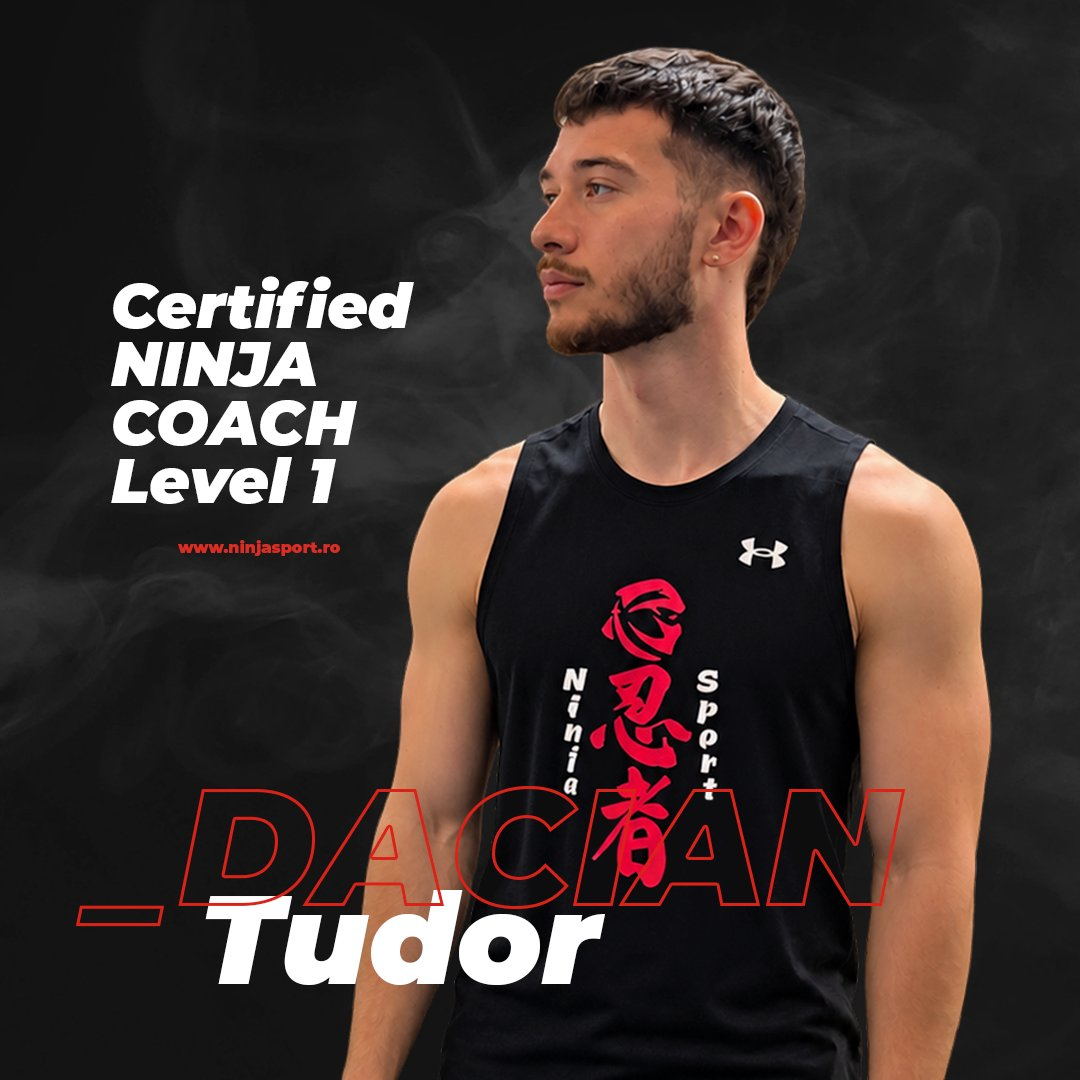
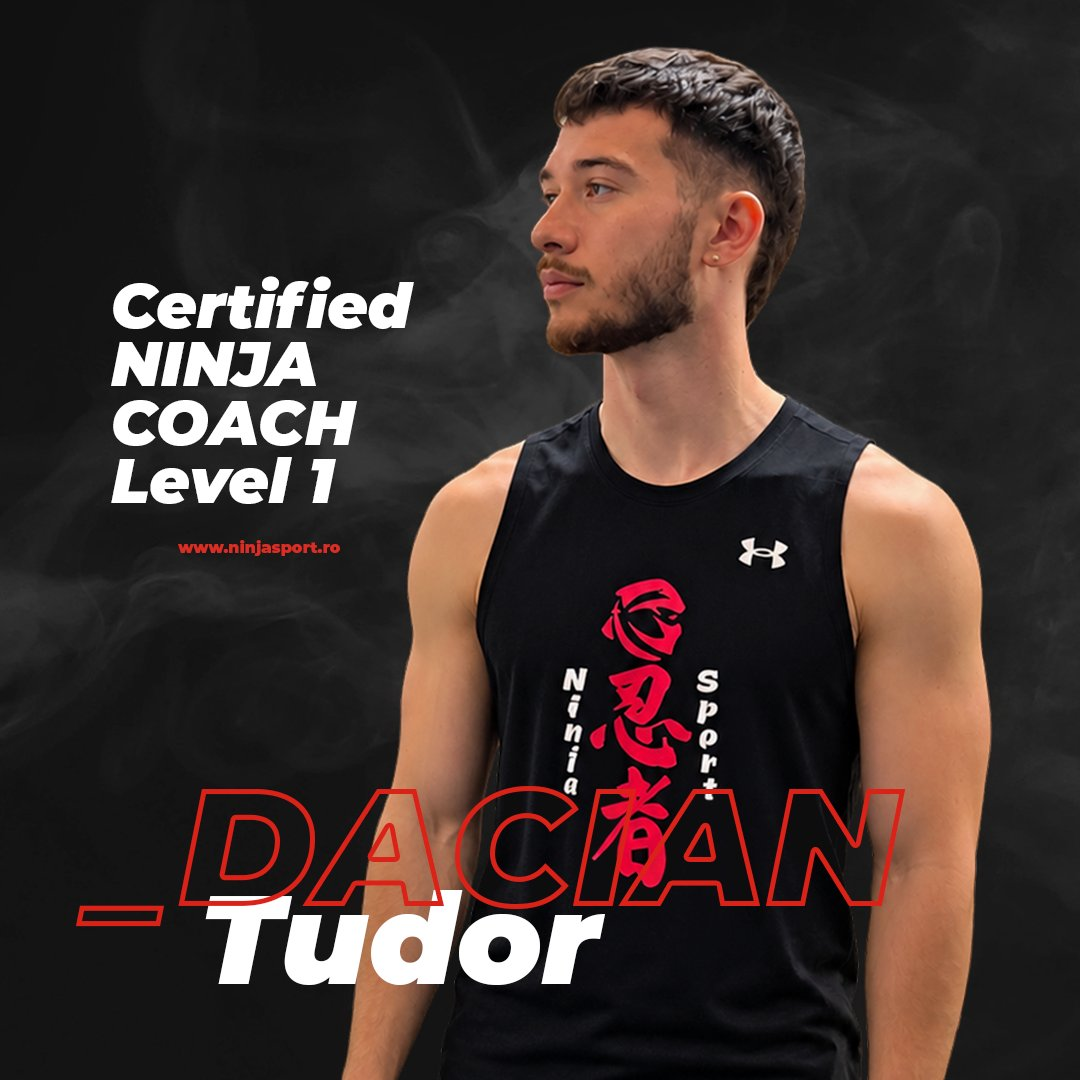
Coaches: poze noi George, Lavinia, Dacian (pătrate, fără decupare)
Claude-Session: https://claude.ai/code/session_01A3sXTgdQTVscXV67M1xm19

diff --git a/public/assets/style.css b/public/assets/style.css
@@ -253,7 +253,7 @@ section{margin:0 0 32px}
 /* coaches */
 .coaches{display:grid;grid-template-columns:repeat(3,1fr);gap:16px}
 .coach{background:var(--panel);border:1px solid var(--line);border-top:3px solid var(--red)}
-.coach img{width:100%;aspect-ratio:740/680;object-fit:cover;background:#1c1c1c}
+.coach img{width:100%;aspect-ratio:1/1;object-fit:cover;background:#1c1c1c}
 .coach .b{padding:14px 16px}
 .coach h3{margin:0;text-transform:uppercase;font-size:1.2em}
 .coach .role{color:var(--red);margin:2px 0 10px;font-size:.9em}
